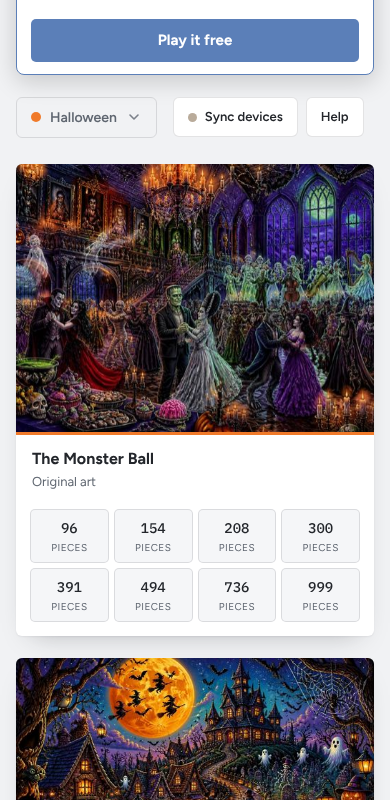
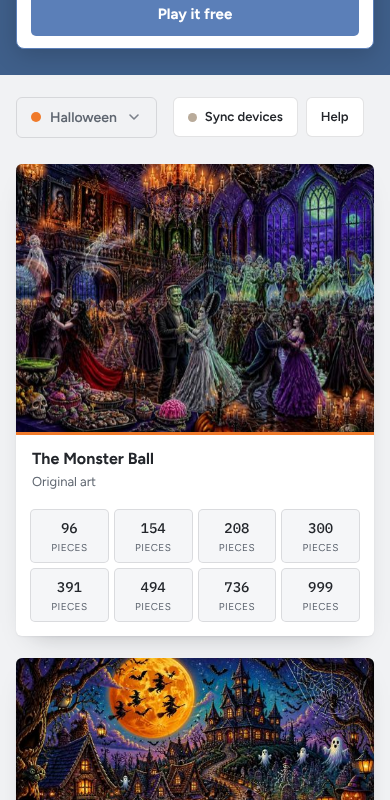
Blue header band like Color Cafe: title and lede stacked left, promo card on the right, Parlor in white
Claude-Session: https://claude.ai/code/session_01X4jKmC36k778ncv5ZPyc4q

Changed region(s): [[0.0, 0.0, 1.0, 0.125]]

diff --git a/public/index.html b/public/index.html
@@ -33,6 +33,7 @@
 :root{
   --wood:#f1f2f4; --wood-2:#e3e5e9; --card:#ffffff; --card-hi:#f5f6f8;
   --ink:#23262b; --muted:#5f6670; --faint:rgba(35,38,43,.13);
+  --head:#3f5f8a; --head-ink:#ffffff; --head-soft:#cfe0f7; --head-muted:rgba(255,255,255,.82);
   --brass:#5b7fb8; --brass-ink:#ffffff; --brass-text:#3d5f96;
   --bar:rgba(255,255,255,.95); --chip:rgba(35,38,43,.06); --chip-hi:rgba(35,38,43,.11);
   --table:#e2e3e6; --tray:#f7f8fa;
@@ -54,10 +55,12 @@ button{font:inherit;color:inherit}
 #gallery{min-height:100%;padding-inline:clamp(16px,4vw,48px);padding-block:28px 56px;
   background:radial-gradient(1200px 500px at 15% -10%, rgba(91,127,184,.10), transparent 60%), var(--wood)}
 .wrap{max-width:1240px;margin-inline:auto}
-.mast{display:flex;flex-wrap:wrap;align-items:flex-end;justify-content:space-between;gap:12px 32px;padding-bottom:22px;border-bottom:1px solid var(--faint)}
-.mast h1{font-family:var(--display);font-weight:400;font-size:clamp(34px,6vw,58px);line-height:1;letter-spacing:.01em;margin:0;color:var(--ink);text-wrap:balance}
-.mast h1 span{color:var(--brass-text)}
-.mast p{margin:0;max-width:52ch;color:var(--muted)}
+.mast{background:var(--head);color:var(--head-ink);margin:-28px calc(-1*clamp(16px,4vw,48px)) 22px;padding:calc(26px + env(safe-area-inset-top)) clamp(16px,4vw,48px) 26px}
+.mast .wrap{display:flex;align-items:center;justify-content:space-between;gap:18px 36px;flex-wrap:wrap}
+.mast .intro{flex:1 1 360px;min-width:0}
+.mast h1{font-family:var(--display);font-weight:400;font-size:clamp(34px,6vw,58px);line-height:1;letter-spacing:.01em;margin:0 0 10px;color:var(--head-soft);text-wrap:balance}
+.mast h1 span{color:var(--head-ink)}
+.mast p{margin:0;max-width:52ch;color:var(--head-muted)}
 .tabs{display:flex;flex-wrap:wrap;align-items:center;gap:8px;margin-block:22px 26px}
 .picker{position:relative}
 .tab-cur{background:var(--ink);color:var(--wood);border-color:var(--ink);padding-right:12px}
@@ -90,7 +93,7 @@ button{font:inherit;color:inherit}
 .box .art img{width:100%;height:100%;object-fit:cover;display:block;transition:transform .5s ease}
 .box:hover .art img{transform:scale(1.04)}
 .box .art{cursor:zoom-in}
-#promo{display:flex;align-items:center;gap:16px;margin:0 0 18px;padding:12px 14px;border-radius:8px;background:var(--card);border:1px solid var(--brass);box-shadow:0 6px 24px rgba(0,0,0,.18)}
+#promo{flex:0 1 520px;display:flex;align-items:center;gap:16px;margin:0;padding:12px 14px;border-radius:8px;background:var(--card);color:var(--ink);border:1px solid var(--brass);box-shadow:0 6px 24px rgba(0,0,0,.18)}
 #promo img{width:150px;height:auto;aspect-ratio:4/3;align-self:center;object-fit:cover;border-radius:5px;flex:none;cursor:zoom-in}
 #promo .ptext{flex:1;min-width:0;display:flex;flex-direction:column;gap:3px}
 #promo .kick{font-size:11px;font-weight:700;letter-spacing:.08em;text-transform:uppercase;color:var(--brass-ink);background:var(--brass);padding:2px 7px;border-radius:3px;align-self:flex-start}
@@ -98,7 +101,7 @@ button{font:inherit;color:inherit}
 #promo p{margin:0;color:var(--muted);font-size:14px}
 #promo .ends{font-size:12px;color:var(--brass-text);font-weight:700}
 #promo .btn{flex:none}
-@media (max-width:640px){#promo{flex-wrap:wrap}#promo img{width:100%;max-height:160px}#promo .btn{width:100%}}
+@media (max-width:640px){#promo{flex-basis:100%;flex-wrap:wrap}#promo img{width:100%;max-height:160px}#promo .btn{width:100%}}
 #look{position:fixed;inset:0;z-index:50;background:rgba(20,22,26,.94);display:flex;flex-direction:column;align-items:center;justify-content:center;gap:10px;padding:14px;cursor:zoom-out}
 #look img{max-width:100%;max-height:calc(100% - 56px);object-fit:contain;border:3px solid #fff;box-shadow:0 20px 50px rgba(0,0,0,.5);background:#222}
 #look .cap{color:#f1f2f4;font-size:14px;text-align:center;text-wrap:balance}
@@ -273,16 +276,18 @@ label.hard input{accent-color:var(--brass-text);width:16px;height:16px;margin:0}
 </head>
 <body>
 <main id="gallery">
-  <div class="wrap">
-    <header class="mast">
+  <header class="mast"><div class="wrap">
+    <div class="intro">
       <h1>Puzzle <span>Parlor</span></h1>
       <p id="lede">Jigsaw puzzles of spooky Halloween scenes, cozy Christmas and holiday pictures, famous paintings, fantasy worlds, fairy tales and landscapes. Pick any picture and choose from 100 to 1,000 pieces.</p>
-    </header>
-    <section id="promo" hidden aria-label="Special offer">
+    </div>
+<section id="promo" hidden aria-label="Special offer">
       <img id="promoImg" alt="" width="520" height="390">
       <div class="ptext"><span class="kick" id="promoKick"></span><h2 id="promoTitle"></h2><p id="promoText"></p><span class="ends" id="promoEnds"></span></div>
       <button class="btn" id="promoBtn">Play it</button>
     </section>
+  </div></header>
+  <div class="wrap">
     <section id="pinned" hidden aria-label="Pinned puzzles">
       <h2>Pinned</h2>
       <div class="pinrow" id="pinrow"></div>

diff --git a/tools/index.src.html b/tools/index.src.html
@@ -8,6 +8,7 @@
 :root{
   --wood:#f1f2f4; --wood-2:#e3e5e9; --card:#ffffff; --card-hi:#f5f6f8;
   --ink:#23262b; --muted:#5f6670; --faint:rgba(35,38,43,.13);
+  --head:#3f5f8a; --head-ink:#ffffff; --head-soft:#cfe0f7; --head-muted:rgba(255,255,255,.82);
   --brass:#5b7fb8; --brass-ink:#ffffff; --brass-text:#3d5f96;
   --bar:rgba(255,255,255,.95); --chip:rgba(35,38,43,.06); --chip-hi:rgba(35,38,43,.11);
   --table:#e2e3e6; --tray:#f7f8fa;
@@ -29,10 +30,12 @@ button{font:inherit;color:inherit}
 #gallery{min-height:100%;padding-inline:clamp(16px,4vw,48px);padding-block:28px 56px;
   background:radial-gradient(1200px 500px at 15% -10%, rgba(91,127,184,.10), transparent 60%), var(--wood)}
 .wrap{max-width:1240px;margin-inline:auto}
-.mast{display:flex;flex-wrap:wrap;align-items:flex-end;justify-content:space-between;gap:12px 32px;padding-bottom:22px;border-bottom:1px solid var(--faint)}
-.mast h1{font-family:var(--display);font-weight:400;font-size:clamp(34px,6vw,58px);line-height:1;letter-spacing:.01em;margin:0;color:var(--ink);text-wrap:balance}
-.mast h1 span{color:var(--brass-text)}
-.mast p{margin:0;max-width:52ch;color:var(--muted)}
+.mast{background:var(--head);color:var(--head-ink);margin:-28px calc(-1*clamp(16px,4vw,48px)) 22px;padding:calc(26px + env(safe-area-inset-top)) clamp(16px,4vw,48px) 26px}
+.mast .wrap{display:flex;align-items:center;justify-content:space-between;gap:18px 36px;flex-wrap:wrap}
+.mast .intro{flex:1 1 360px;min-width:0}
+.mast h1{font-family:var(--display);font-weight:400;font-size:clamp(34px,6vw,58px);line-height:1;letter-spacing:.01em;margin:0 0 10px;color:var(--head-soft);text-wrap:balance}
+.mast h1 span{color:var(--head-ink)}
+.mast p{margin:0;max-width:52ch;color:var(--head-muted)}
 .tabs{display:flex;flex-wrap:wrap;align-items:center;gap:8px;margin-block:22px 26px}
 .picker{position:relative}
 .tab-cur{background:var(--ink);color:var(--wood);border-color:var(--ink);padding-right:12px}
@@ -65,7 +68,7 @@ button{font:inherit;color:inherit}
 .box .art img{width:100%;height:100%;object-fit:cover;display:block;transition:transform .5s ease}
 .box:hover .art img{transform:scale(1.04)}
 .box .art{cursor:zoom-in}
-#promo{display:flex;align-items:center;gap:16px;margin:0 0 18px;padding:12px 14px;border-radius:8px;background:var(--card);border:1px solid var(--brass);box-shadow:0 6px 24px rgba(0,0,0,.18)}
+#promo{flex:0 1 520px;display:flex;align-items:center;gap:16px;margin:0;padding:12px 14px;border-radius:8px;background:var(--card);color:var(--ink);border:1px solid var(--brass);box-shadow:0 6px 24px rgba(0,0,0,.18)}
 #promo img{width:150px;height:auto;aspect-ratio:4/3;align-self:center;object-fit:cover;border-radius:5px;flex:none;cursor:zoom-in}
 #promo .ptext{flex:1;min-width:0;display:flex;flex-direction:column;gap:3px}
 #promo .kick{font-size:11px;font-weight:700;letter-spacing:.08em;text-transform:uppercase;color:var(--brass-ink);background:var(--brass);padding:2px 7px;border-radius:3px;align-self:flex-start}
@@ -73,7 +76,7 @@ button{font:inherit;color:inherit}
 #promo p{margin:0;color:var(--muted);font-size:14px}
 #promo .ends{font-size:12px;color:var(--brass-text);font-weight:700}
 #promo .btn{flex:none}
-@media (max-width:640px){#promo{flex-wrap:wrap}#promo img{width:100%;max-height:160px}#promo .btn{width:100%}}
+@media (max-width:640px){#promo{flex-basis:100%;flex-wrap:wrap}#promo img{width:100%;max-height:160px}#promo .btn{width:100%}}
 #look{position:fixed;inset:0;z-index:50;background:rgba(20,22,26,.94);display:flex;flex-direction:column;align-items:center;justify-content:center;gap:10px;padding:14px;cursor:zoom-out}
 #look img{max-width:100%;max-height:calc(100% - 56px);object-fit:contain;border:3px solid #fff;box-shadow:0 20px 50px rgba(0,0,0,.5);background:#222}
 #look .cap{color:#f1f2f4;font-size:14px;text-align:center;text-wrap:balance}
@@ -245,16 +248,18 @@ label.hard input{accent-color:var(--brass-text);width:16px;height:16px;margin:0}
 </style>
 
 <main id="gallery">
-  <div class="wrap">
-    <header class="mast">
+  <header class="mast"><div class="wrap">
+    <div class="intro">
       <h1>Puzzle <span>Parlor</span></h1>
       <p id="lede">Jigsaw puzzles of spooky Halloween scenes, cozy Christmas and holiday pictures, famous paintings, fantasy worlds, fairy tales and landscapes. Pick any picture and choose from 100 to 1,000 pieces.</p>
-    </header>
-    <section id="promo" hidden aria-label="Special offer">
+    </div>
+<section id="promo" hidden aria-label="Special offer">
       <img id="promoImg" alt="" width="520" height="390">
       <div class="ptext"><span class="kick" id="promoKick"></span><h2 id="promoTitle"></h2><p id="promoText"></p><span class="ends" id="promoEnds"></span></div>
       <button class="btn" id="promoBtn">Play it</button>
     </section>
+  </div></header>
+  <div class="wrap">
     <section id="pinned" hidden aria-label="Pinned puzzles">
       <h2>Pinned</h2>
       <div class="pinrow" id="pinrow"></div>

diff --git a/public/sw.js b/public/sw.js
@@ -1,4 +1,4 @@
-const C='puzzle-parlor-47894d67f6';
+const C='puzzle-parlor-e59d60f1bb';
 self.addEventListener('install',e=>{e.waitUntil(caches.open(C).then(c=>c.addAll(['./index.html','./manifest.webmanifest','./icon-192.png'])));self.skipWaiting()});
 self.addEventListener('activate',e=>{e.waitUntil(caches.keys().then(ks=>Promise.all(ks.filter(k=>k!==C&&k!=='puzzle-parlor-media').map(k=>caches.delete(k)))));self.clients.claim()});
 self.addEventListener('fetch',e=>{
